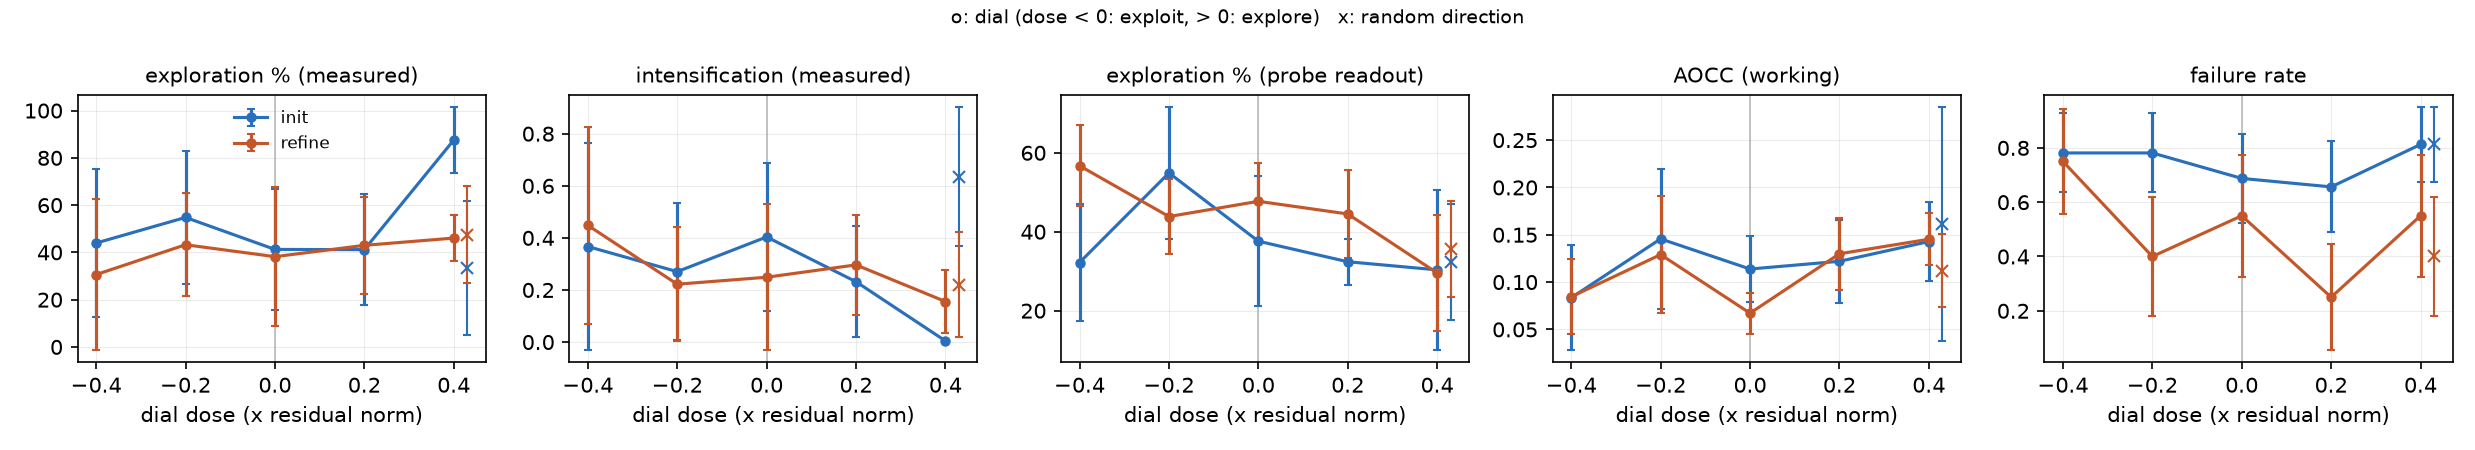
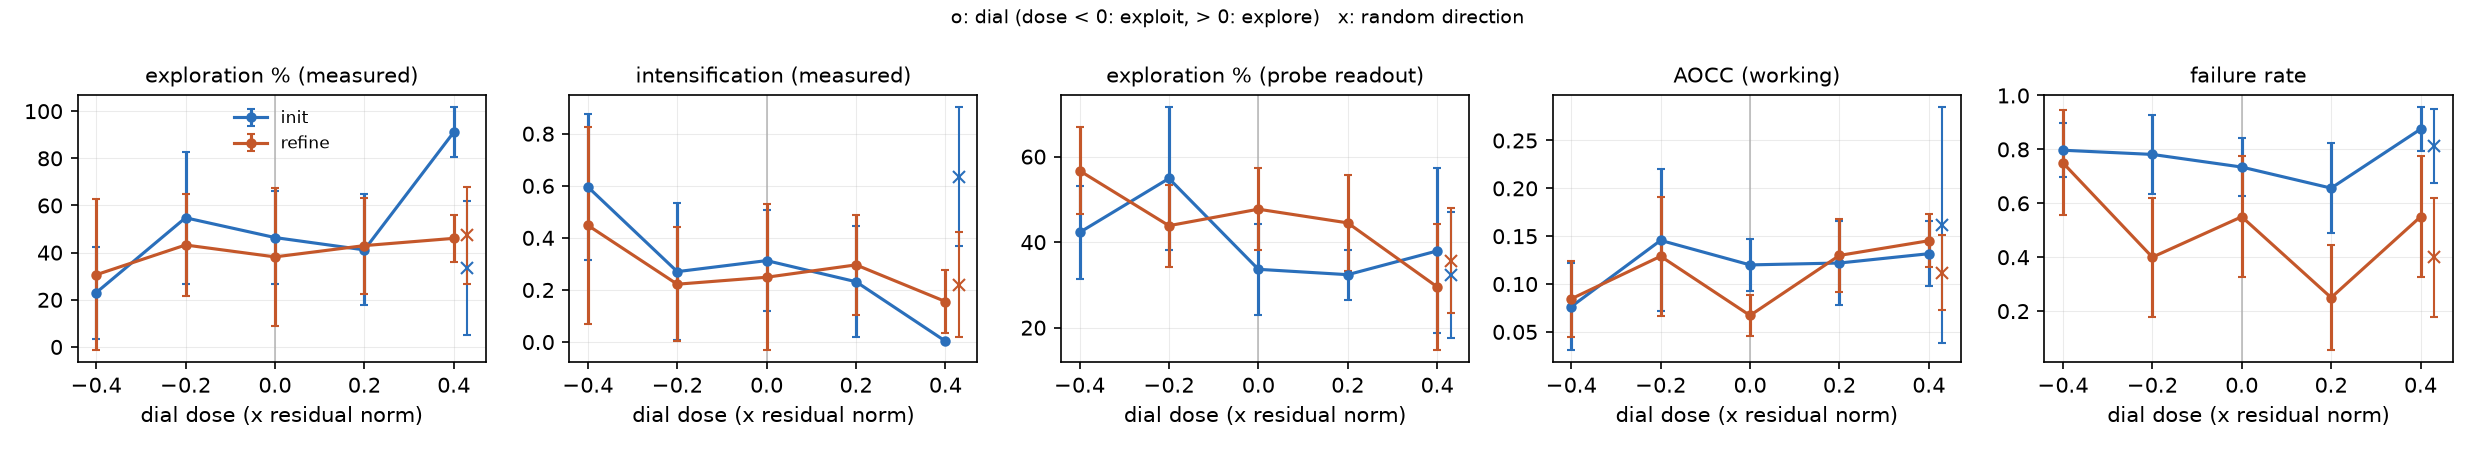
exp05: area under the best-so-far curve in 07_paired.py
Claude-Session: https://claude.ai/code/session_01HiY2gsvFMFiKEhDB9kR9JT

diff --git a/experiments/mi/exp05_steering/scripts/07_paired.py b/experiments/mi/exp05_steering/scripts/07_paired.py
@@ -21,10 +21,24 @@ tags = [args.tag] + args.others
 runs = pd.concat([pd.read_csv(f"results/{t}/runs.csv") for t in tags])
 s = pd.concat([pd.read_csv(f"results/{t}/solutions.csv") for t in tags])
 runs = runs.drop_duplicates(["arm", "seed"])
+s = s.drop_duplicates(["arm", "seed", "idx"])
+
+
+def auc_best(g):
+    """Area under the best-so-far curve, as a mean over the evaluations
+    (anytime performance; failed algorithms count as the run's worst)."""
+    f = g.sort_values("idx").aocc.astype(float)
+    f = f.where(np.isfinite(f))
+    return f.fillna(f.min()).cummax().mean()
+
+
+auc = s.groupby(["arm", "seed"]).apply(auc_best, include_groups=False)
+runs = runs.merge(auc.rename("auc_best").reset_index(), on=["arm", "seed"])
 cols = [
     c
     for c in [
         "best_aocc",
+        "auc_best",
         "failed",
         "n_families",
         "div_concepts",
@@ -37,6 +51,8 @@ cols = [
     ]
     if c in runs
 ]
+print("per-arm mean over seeds")
+print(runs.groupby("arm")[cols].mean().round(3).to_string())
 rng = np.random.default_rng(0)
 ctrl = runs[runs.arm == "control"].set_index("seed")
 print("paired diff vs control (mean, 95% bootstrap CI over seeds)")

diff --git a/experiments/mi/exp05_steering/results/transfer-bragg/summary.md b/experiments/mi/exp05_steering/results/transfer-bragg/summary.md
@@ -6,11 +6,11 @@ Dial `b_exploration_pct_resid@L27`, doses [-0.4, -0.2, 0.2, 0.4] x residual norm
 
 | phase | condition | n | failed | score | exploration_pct | intensification | last_improvement | probe_expl | population | differential_evolution | particle_swarm | restart | simulated_annealing | local_search | gradient | gen_tokens |
 |---|---|---|---|---|---|---|---|---|---|---|---|---|---|---|---|---|
-| init | none | 32 | 0.688 | 0.114 | 41.254 | 0.403 | 0.475 | 37.599 | 1.000 | 0.900 | 0.000 | 0.000 | 0.000 | 0.900 | 0.100 | 728.844 |
-| init | dial@-0.4 | 32 | 0.781 | 0.083 | 43.957 | 0.367 | 0.754 | 32.199 | 0.857 | 0.286 | 0.000 | 0.000 | 0.286 | 1.000 | 0.000 | 1486.344 |
+| init | none | 64 | 0.734 | 0.120 | 46.395 | 0.313 | 0.478 | 33.650 | 1.000 | 0.941 | 0.000 | 0.000 | 0.000 | 0.706 | 0.059 | 733.750 |
+| init | dial@-0.4 | 64 | 0.797 | 0.076 | 23.007 | 0.596 | 0.757 | 42.264 | 0.923 | 0.308 | 0.000 | 0.000 | 0.231 | 1.000 | 0.000 | 1460.000 |
 | init | dial@-0.2 | 32 | 0.781 | 0.146 | 54.787 | 0.270 | 0.489 | 54.898 | 1.000 | 1.000 | 0.000 | 0.000 | 0.000 | 1.000 | 0.143 | 980.344 |
 | init | dial@+0.2 | 32 | 0.656 | 0.122 | 41.167 | 0.232 | 0.621 | 32.396 | 1.000 | 0.818 | 0.000 | 0.000 | 0.000 | 0.636 | 0.000 | 747.344 |
-| init | dial@+0.4 | 32 | 0.812 | 0.143 | 87.518 | 0.004 | 0.502 | 30.336 | 1.000 | 1.000 | 0.000 | 0.000 | 0.000 | 0.333 | 0.000 | 773.312 |
+| init | dial@+0.4 | 64 | 0.875 | 0.132 | 91.084 | 0.003 | 0.491 | 37.949 | 1.000 | 1.000 | 0.000 | 0.000 | 0.000 | 0.250 | 0.000 | 789.875 |
 | init | random@+0.4 | 32 | 0.812 | 0.162 | 33.464 | 0.635 | 0.189 | 32.351 | 1.000 | 0.500 | 0.000 | 0.000 | 0.000 | 0.667 | 0.000 | 834.781 |
 | refine | none | 20 | 0.550 | 0.067 | 38.191 | 0.249 | 0.672 | 47.708 | 1.000 | 0.889 | 0.111 | 0.000 | 0.000 | 0.889 | 0.222 | 988.600 |
 | refine | dial@-0.4 | 20 | 0.750 | 0.085 | 30.604 | 0.448 | 0.562 | 56.716 | 0.800 | 0.600 | 0.000 | 0.000 | 0.000 | 0.800 | 0.200 | 1503.950 |
@@ -25,45 +25,45 @@ Fixed effects per prompt x replicate; 95% CI from a bootstrap over them. `failed
 
 | phase | metric | n | slope | lo | hi |
 |---|---|---|---|---|---|
-| pooled | exploration_pct | 87 | 26.260 | 0.039 | 51.117 |
-| pooled | intensification | 90 | -0.436 | -0.728 | -0.173 |
-| pooled | last_improvement | 90 | -0.208 | -0.478 | 0.089 |
-| pooled | probe_expl_w | 91 | -9.195 | -29.866 | 7.605 |
-| pooled | score | 91 | 0.056 | 0.012 | 0.096 |
-| pooled | failed_f | 260 | -0.125 | -0.327 | 0.087 |
-| pooled | population | 260 | 0.356 | 0.221 | 0.510 |
-| pooled | differential_evolution | 260 | 0.471 | 0.279 | 0.663 |
-| pooled | particle_swarm | 260 | -0.019 | -0.058 | 0.000 |
-| pooled | restart | 260 | 0.010 | -0.019 | 0.038 |
-| pooled | simulated_annealing | 260 | -0.058 | -0.125 | -0.010 |
-| pooled | local_search | 260 | -0.221 | -0.423 | -0.010 |
-| pooled | gradient | 260 | -0.000 | -0.125 | 0.115 |
-| init | exploration_pct | 39 | 41.633 | -3.809 | 128.767 |
-| init | intensification | 40 | -0.613 | -1.577 | -0.219 |
-| init | last_improvement | 40 | 0.059 | -0.429 | 0.640 |
-| init | probe_expl_w | 41 | -5.543 | -72.595 | 21.374 |
-| init | score | 41 | 0.060 | -0.050 | 0.149 |
-| init | failed_f | 160 | -0.031 | -0.281 | 0.219 |
-| init | population | 160 | 0.281 | 0.125 | 0.437 |
-| init | differential_evolution | 160 | 0.469 | 0.188 | 0.734 |
-| init | particle_swarm | 160 | -0.031 | -0.094 | 0.000 |
-| init | restart | 160 | 0.000 | 0.000 | 0.000 |
-| init | simulated_annealing | 160 | -0.078 | -0.172 | 0.000 |
-| init | local_search | 160 | -0.391 | -0.672 | -0.109 |
-| init | gradient | 160 | 0.078 | -0.047 | 0.203 |
-| refine | exploration_pct | 48 | 18.390 | -17.966 | 42.339 |
-| refine | intensification | 50 | -0.344 | -0.697 | 0.035 |
-| refine | last_improvement | 50 | -0.346 | -0.644 | -0.005 |
-| refine | probe_expl_w | 50 | -11.121 | -27.460 | 6.612 |
-| refine | score | 50 | 0.053 | 0.003 | 0.097 |
-| refine | failed_f | 100 | -0.275 | -0.600 | 0.075 |
+| pooled | exploration_pct | 102 | 29.650 | 2.062 | 54.981 |
+| pooled | intensification | 105 | -0.455 | -0.736 | -0.192 |
+| pooled | last_improvement | 105 | -0.181 | -0.429 | 0.100 |
+| pooled | probe_expl_w | 106 | -4.012 | -22.949 | 14.174 |
+| pooled | score | 106 | 0.046 | -0.006 | 0.085 |
+| pooled | failed_f | 356 | -0.032 | -0.184 | 0.122 |
+| pooled | population | 356 | 0.341 | 0.218 | 0.467 |
+| pooled | differential_evolution | 356 | 0.457 | 0.296 | 0.609 |
+| pooled | particle_swarm | 356 | -0.013 | -0.039 | 0.000 |
+| pooled | restart | 356 | 0.006 | -0.013 | 0.032 |
+| pooled | simulated_annealing | 356 | -0.064 | -0.122 | -0.019 |
+| pooled | local_search | 356 | -0.393 | -0.567 | -0.226 |
+| pooled | gradient | 356 | -0.013 | -0.120 | 0.085 |
+| init | exploration_pct | 54 | 49.081 | 4.042 | 132.363 |
+| init | intensification | 55 | -0.643 | -1.364 | -0.262 |
+| init | last_improvement | 55 | 0.100 | -0.338 | 0.610 |
+| init | probe_expl_w | 56 | 7.942 | -42.402 | 42.958 |
+| init | score | 56 | 0.034 | -0.089 | 0.113 |
+| init | failed_f | 256 | 0.052 | -0.112 | 0.224 |
+| init | population | 256 | 0.295 | 0.158 | 0.430 |
+| init | differential_evolution | 256 | 0.451 | 0.261 | 0.644 |
+| init | particle_swarm | 256 | -0.017 | -0.053 | 0.000 |
+| init | restart | 256 | 0.000 | 0.000 | 0.000 |
+| init | simulated_annealing | 256 | -0.078 | -0.151 | -0.017 |
+| init | local_search | 256 | -0.547 | -0.753 | -0.347 |
+| init | gradient | 256 | 0.026 | -0.080 | 0.133 |
+| refine | exploration_pct | 48 | 18.390 | -18.538 | 42.930 |
+| refine | intensification | 50 | -0.344 | -0.681 | 0.024 |
+| refine | last_improvement | 50 | -0.346 | -0.624 | 0.004 |
+| refine | probe_expl_w | 50 | -11.121 | -27.584 | 6.413 |
+| refine | score | 50 | 0.053 | 0.000 | 0.097 |
+| refine | failed_f | 100 | -0.275 | -0.576 | 0.075 |
 | refine | population | 100 | 0.475 | 0.225 | 0.750 |
 | refine | differential_evolution | 100 | 0.475 | 0.250 | 0.725 |
 | refine | particle_swarm | 100 | 0.000 | 0.000 | 0.000 |
 | refine | restart | 100 | 0.025 | -0.050 | 0.100 |
 | refine | simulated_annealing | 100 | -0.025 | -0.075 | 0.000 |
-| refine | local_search | 100 | 0.050 | -0.200 | 0.325 |
-| refine | gradient | 100 | -0.125 | -0.375 | 0.125 |
+| refine | local_search | 100 | 0.050 | -0.225 | 0.300 |
+| refine | gradient | 100 | -0.125 | -0.350 | 0.125 |
 
 ## Paired change against the unsteered sample
 
@@ -73,33 +73,33 @@ Fixed effects per prompt x replicate; 95% CI from a bootstrap over them. `failed
 | dial@-0.4 | intensification | 0.002 | -0.000 | 0.007 |
 | dial@-0.4 | last_improvement | -0.041 | -0.296 | 0.227 |
 | dial@-0.4 | probe_expl_w | 13.104 | -11.008 | 37.216 |
-| dial@-0.4 | score | 0.017 | -0.010 | 0.056 |
-| dial@-0.4 | failed_f | 0.135 | -0.038 | 0.308 |
-| dial@-0.2 | exploration_pct | -3.645 | -26.749 | 14.943 |
+| dial@-0.4 | score | 0.017 | -0.008 | 0.056 |
+| dial@-0.4 | failed_f | 0.095 | -0.048 | 0.238 |
+| dial@-0.2 | exploration_pct | -3.645 | -25.295 | 14.931 |
 | dial@-0.2 | intensification | 0.036 | -0.026 | 0.138 |
-| dial@-0.2 | last_improvement | 0.004 | -0.060 | 0.062 |
-| dial@-0.2 | probe_expl_w | -0.029 | -20.357 | 18.373 |
+| dial@-0.2 | last_improvement | 0.004 | -0.056 | 0.061 |
+| dial@-0.2 | probe_expl_w | -0.029 | -19.107 | 18.499 |
 | dial@-0.2 | score | 0.013 | -0.005 | 0.043 |
-| dial@-0.2 | failed_f | 0.000 | -0.173 | 0.192 |
-| dial@+0.2 | exploration_pct | 4.049 | -31.168 | 37.124 |
-| dial@+0.2 | intensification | -0.125 | -0.468 | 0.256 |
-| dial@+0.2 | last_improvement | 0.016 | -0.205 | 0.273 |
-| dial@+0.2 | probe_expl_w | 1.476 | -13.032 | 17.572 |
-| dial@+0.2 | score | 0.021 | -0.016 | 0.058 |
-| dial@+0.2 | failed_f | -0.135 | -0.308 | 0.038 |
-| dial@+0.4 | exploration_pct | 33.005 | -32.380 | 83.627 |
-| dial@+0.4 | intensification | -0.351 | -0.891 | 0.189 |
-| dial@+0.4 | last_improvement | -0.178 | -0.469 | 0.239 |
-| dial@+0.4 | probe_expl_w | -6.584 | -40.304 | 24.388 |
-| dial@+0.4 | score | 0.091 | 0.053 | 0.128 |
-| dial@+0.4 | failed_f | 0.077 | -0.115 | 0.269 |
-| random@+0.4 | exploration_pct | -2.325 | -28.314 | 28.901 |
-| random@+0.4 | intensification | 0.135 | 0.015 | 0.289 |
-| random@+0.4 | last_improvement | -0.238 | -0.465 | -0.020 |
-| random@+0.4 | probe_expl_w | -7.191 | -24.470 | 7.598 |
-| random@+0.4 | score | 0.043 | -0.035 | 0.134 |
+| dial@-0.2 | failed_f | 0.000 | -0.173 | 0.173 |
+| dial@+0.2 | exploration_pct | 4.049 | -32.145 | 38.532 |
+| dial@+0.2 | intensification | -0.125 | -0.466 | 0.232 |
+| dial@+0.2 | last_improvement | 0.016 | -0.203 | 0.271 |
+| dial@+0.2 | probe_expl_w | 1.476 | -13.024 | 18.122 |
+| dial@+0.2 | score | 0.021 | -0.016 | 0.061 |
+| dial@+0.2 | failed_f | -0.135 | -0.308 | 0.058 |
+| dial@+0.4 | exploration_pct | 36.079 | -9.790 | 77.384 |
+| dial@+0.4 | intensification | -0.350 | -0.747 | 0.063 |
+| dial@+0.4 | last_improvement | -0.063 | -0.356 | 0.230 |
+| dial@+0.4 | probe_expl_w | 10.754 | -23.179 | 40.832 |
+| dial@+0.4 | score | 0.037 | -0.043 | 0.103 |
+| dial@+0.4 | failed_f | 0.107 | -0.024 | 0.226 |
+| random@+0.4 | exploration_pct | -2.325 | -29.697 | 27.225 |
+| random@+0.4 | intensification | 0.135 | 0.011 | 0.288 |
+| random@+0.4 | last_improvement | -0.238 | -0.464 | -0.015 |
+| random@+0.4 | probe_expl_w | -7.191 | -23.773 | 7.631 |
+| random@+0.4 | score | 0.043 | -0.034 | 0.137 |
 | random@+0.4 | failed_f | 0.019 | -0.154 | 0.192 |
 
 ## Probe readout vs measured exploration
 
-Spearman -0.03 over 105 working algorithms.
+Spearman -0.08 over 120 working algorithms.

diff --git a/experiments/mi/exp05_steering/README.md b/experiments/mi/exp05_steering/README.md
@@ -232,6 +232,24 @@ arms are repeated for reference:
   steering as such. On Bragg the prompts are the least harmful arms.
 * Anneal remains the only arm that is neutral on packing.
 
+**Anytime performance (`auc_best` in `paired.txt`: area under the
+best-so-far curve, mean over the 100 evaluations; failed algorithms count
+as the run's worst).** Paired differences against control:
+
+| arm | MA-BBOB | Bragg | packing |
+|---|---|---|---|
+| adaptive | +0.02 (−0.10 to +0.13) | −0.17 (−0.33 to +0.00) | −0.18 (−0.45 to +0.09) |
+| prompt_explore | −0.01 (−0.13 to +0.10) | −0.09 (−0.28 to +0.11) | −0.22 (−0.40 to −0.02) |
+| prompt_exploit | −0.05 (−0.16 to +0.09) | −0.08 (−0.23 to +0.10) | −0.24 (−0.37 to −0.07) |
+| anneal | −0.01 (−0.15 to +0.12) | −0.23 (−0.38 to −0.07) | +0.13 (−0.10 to +0.34) |
+| explore | +0.02 (−0.13 to +0.14) | −0.17 (−0.33 to −0.02) | −0.34 (−0.77 to +0.06) |
+| exploit | −0.21 (−0.36 to −0.07) | −0.26 (−0.37 to −0.16) | −0.46 (−0.71 to −0.22) |
+
+The area tells the same story as the final best: the MA-BBOB gains of
+adaptive and explore in final AOCC (+0.05 to +0.07) shrink to +0.02, so
+they come late in the run (the question behind extending control and
+`adaptive_cal` to 200 evaluations).
+
 **E4: the failure pre-screen on new problems
 (`results/prescreen-transfer`, `12_prescreen_transfer.py`).** The frozen
 MA-BBOB child-failure probe (`child_failed_gen_mean_L21`, experiment 1) on
